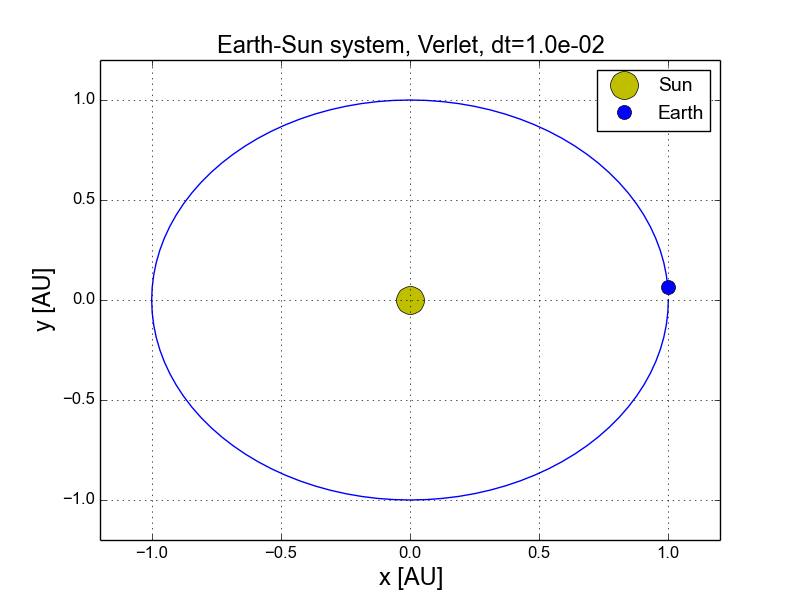
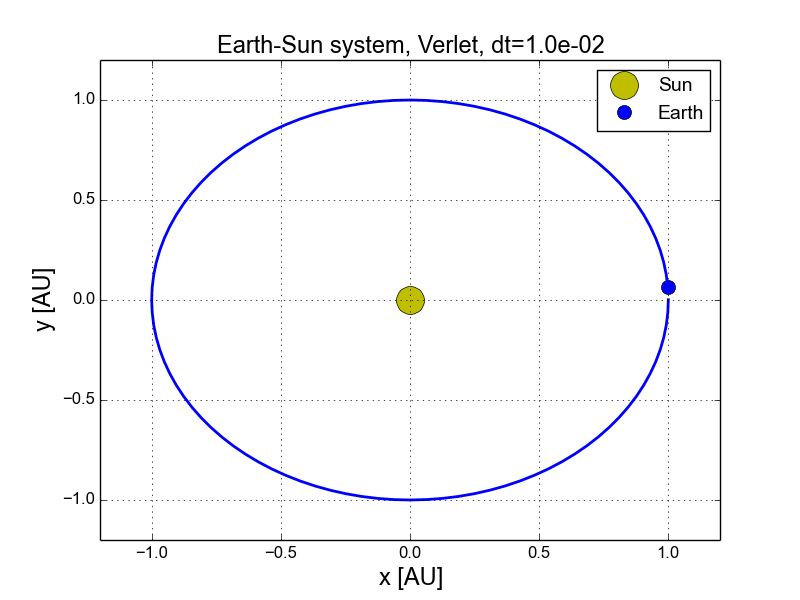
fixing images

diff --git a/src/main.cpp b/src/main.cpp
@@ -67,12 +67,13 @@ int main(int argc, char *argv[])
         }
 
         // Finding number of time steps based on how many years we want the program to run
-        num_timesteps = 1/dt; // 1 yr / dt [yr]
-        iter = num_timesteps/max_steps;
+        int years = 1;
+        num_timesteps = years/dt; //  yr / dt [yr]
+        if (num_timesteps > max_steps) iter = num_timesteps/max_steps;
 
         // Creating filename for this task
         string meth = method;
-        string filename = "../benchmarks/ES/pos_"+meth+"_dt"+to_string(dt)+"_N"+to_string(num_timesteps)+"_vy"+to_string(v_y0)+".xyz";
+        string filename = "../benchmarks/ES/pos_"+meth+"_dt"+to_string(dt)+"_yrs"+to_string(years)+"_vy"+to_string(v_y0)+".xyz";
 
         // For timing segments of code, comment out write to file
         //clock_t start, finish;
@@ -128,7 +129,7 @@ int main(int argc, char *argv[])
     }
 
     /////////////////////////////////////////////
-    ///    Earth-Sun-Jupiter, Sun is fixed    ///
+    ///           Earth-Sun-Jupiter           ///
     /////////////////////////////////////////////
     else if(strcmp(argv[1], "ESJ1") == 0 || strcmp(argv[1], "ESJ2") == 0)
     {
@@ -137,12 +138,12 @@ int main(int argc, char *argv[])
         {
             factor = atof(argv[3]);
         }
-
-        num_timesteps = 12/dt;  // checking effect over 12 years
-        iter = num_timesteps/max_steps;
+        int years = 12;  // 12 years a solar system
+        num_timesteps = years/dt;  // finding number of time steps
+        if (num_timesteps > max_steps) iter = num_timesteps/max_steps;
 
         // Creating filename
-        string filename = "../benchmarks/"+(string)argv[1]+"/pos_dt"+to_string(dt)+"_N"+to_string(num_timesteps)+"_m"+to_string(factor)+".xyz";
+        string filename = "../benchmarks/"+(string)argv[1]+"/pos_dt"+to_string(dt)+"_yrs"+to_string(years)+"_m"+to_string(factor)+".xyz";
 
         // Adding objects to the solar system
         solarSystem.createCelestialBody(vec3(0,0,0),vec3(0,0,0),1.0); // adding the Sun
@@ -172,6 +173,12 @@ int main(int argc, char *argv[])
         // Making sure the momentum is zero, correcting the velocity of the Sun
         if (strcmp(argv[1],"ESJ2") == 0)
         {
+            // Placing the sun in the full solar system barycenter
+            vec3 pos_sun = vec3( 3.557522499727856E-03,  3.436899814085439E-03, -1.596344425455737E-04); // position [AU]
+            vec3 vel_sun = vec3(-2.030857186518649E-06,  6.828431295519784E-06,  4.169177553390423E-08); // velocity [AU/day]
+            body.position = pos_sun;
+            body.velocity = vel_sun;
+
             vec3 mom_tot = vec3(0,0,0);
             vec3 mom_sun = body.mass*body.velocity;
             for (unsigned int i=1; i<m_bodies.size(); i++)
@@ -195,16 +202,17 @@ int main(int argc, char *argv[])
     /////////////////////////////////////////////
     else if(strcmp(argv[1], "WS") == 0)
     {
-        double years = 10; // the amount of years we want the program to run over
+        double years = 100; // the amount of years we want the program to run over
         if (argc>3)
         {
             years = atof(argv[3]);
         }
         num_timesteps = (int)(years/dt);
-        iter = num_timesteps/max_steps;
+        max_steps = 100000;
+        if (num_timesteps > max_steps) iter = num_timesteps/max_steps;
 
         // Creating filename
-        string filename = "../benchmarks/WS/pos_dt"+to_string(dt)+"_N"+to_string(num_timesteps)+".xyz";
+        string filename = "../benchmarks/WS/pos_dt"+to_string(dt)+"_yrs"+to_string(years)+".xyz";
 
         // Relative masses, in units [M_sun]
         double M_sun = 2e30;              // mass of the Sun in kg
@@ -292,16 +300,16 @@ int main(int argc, char *argv[])
             integrator.integrateOneStep(solarSystem);
             if (i%iter == 0) solarSystem.writeToFile(filename); // only write to file every iter steps
 
-            if (i%((int)(0.1*num_timesteps)) == 0)
-            {
-                totalEnergy = solarSystem.totalEnergy();
-                momentum = solarSystem.momentum();
-                angularMomentum = solarSystem.angularMomentum();
-                cout<<i<<endl<<"E_tot = "<<totalEnergy<<endl;
-                cout<<"p = "<<momentum.length()<<endl;
-                cout<<"L = "<<angularMomentum.length()<<endl;
-            }
-
+            /*if (i%((int)(0.1*num_timesteps)) == 0)
+            *{
+            *    totalEnergy = solarSystem.totalEnergy();
+            *    momentum = solarSystem.momentum();
+            *    angularMomentum = solarSystem.angularMomentum();
+            *    cout<<i<<endl<<"E_tot = "<<totalEnergy<<endl;
+            *    cout<<"p = "<<momentum.length()<<endl;
+            *    cout<<"L = "<<angularMomentum.length()<<endl;
+            *}
+            */
         }
 
     }

diff --git a/python/solar_system.py b/python/solar_system.py
@@ -46,12 +46,12 @@ if __name__=='__main__':
         for filename in files:
             words = filename.split('_')
             method = words[1]
-            dt = float((words[2])[2::])            
-            N = int((words[3])[1::])
+            dt = float((words[2])[2::])
+            years = int((words[3])[3::])
             vy = float((words[4])[2:-4])
 
             # Plotting
-            positions = read_file(filename,N)
+            positions = read_file(filename,1)
 
             plot(positions[0][0,0],positions[0][0,1],'oy',ms=20,label='Sun')
             plot(positions[1][0,0],positions[1][0,1],'ob',ms=10,label='Earth')
@@ -60,15 +60,19 @@ if __name__=='__main__':
             plot(positions[1][:,0],positions[1][:,1],'b',lw=2.0)
             xlabel('x [AU]',size=17)
             ylabel('y [AU]',size=17)
+            legend(numpoints=1,fontsize=14,loc='best')
+            grid('on')
             if vy == 6.28:
                 title('Earth-Sun system, %s, dt=%.1e'%(method,dt),size=17)
+                xlim([-1.2,1.2])
+                ylim([-1.2,1.2])
+                savefig('../figures/%s/ES_%s_dt%.1e_vy%.2f.png'%(task,method,dt,vy))
+
             else:
-                title('Earth-Sun system, %s, dt=%.1e, v=%.1f'%(method,dt,vy),size=17)
-            grid('on')
-            legend(numpoints=1,fontsize=14)
-            xlim([-1.2,1.2])
-            ylim([-1.2,1.2])
-            savefig('../figures/%s/ES_%s_dt%.1e_vy%.2f.png'%(task,method,dt,vy))
+                title('Earth-Sun system, %s, dt=%.1e, v=%.2f'%(method,dt,vy),size=17)
+                xlim([-2,2])
+                ylim([-2,3])
+                savefig('../figures/%s/ES_%s_dt%.1e_yrs%d_vy%.2f.png'%(task,method,dt,years,vy))
             show()
 
 
@@ -78,7 +82,7 @@ if __name__=='__main__':
         for filename in files:
             words = filename.split('_')
             dt = float((words[1])[2::])            
-            N = int((words[2])[1::])
+            #N = int((words[2])[1::])
             m = float((words[3])[1:-4])
         
             # Plotting
@@ -105,6 +109,37 @@ if __name__=='__main__':
             ylim([-6.5,6.5])
             savefig('../figures/%s/%s_dt%.1e_m%.1f.png'%(task,task,dt,m))
             show()
+
+
+    # Plot WS
+    if task=='WS':
+        bodies = ['Sun','Mercury','Venus','Earth','Mars','Jupiter',
+                  'Saturn','Uranus','Neptune','Pluto']
+        colors = ['y','k','w','b','r','m','g','c','0.3','0.8']
+        files = glob.glob('../benchmarks/WS/pos*.xyz')
+        for filename in files:
+            words = filename.split('_')
+            dt = float((words[1])[2::])
+            years = int(float(((words[2])[3:-4])))
+        
+            # Plotting
+            positions = read_file(filename,N)
+            
+            start = 0
+            end = 6
+            for i in range(start,len(positions)- end):
+                plot(positions[i][:,0],positions[i][:,1],color=colors[i],lw=2.0,label=bodies[i])
+            xlabel('x [AU]',size=17)
+            ylabel('y [AU]',size=17)            
+
+            title(r'Full solar system, dt=%.1e, %d years'%(dt,years),size=17)
+            grid('on')
+            legend(numpoints=1,fontsize=14)
+#            xlim([-6.5,6.5])
+#            ylim([-6.5,6.5])
+            savefig('../figures/WS/pos%d%d_dt%.1e_yrs%.1f.png'%(start,end,dt,years))
+            show()
+
 
     # Plot GR
     if task=='GR':
